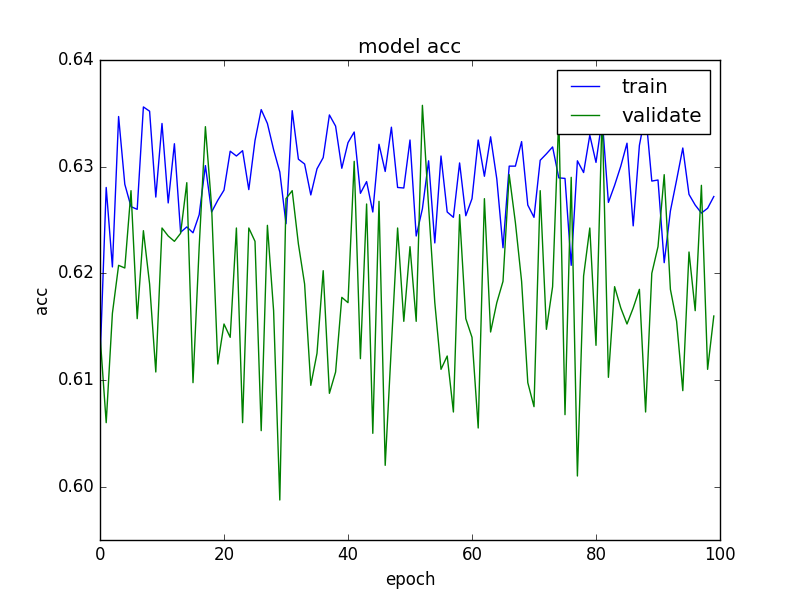
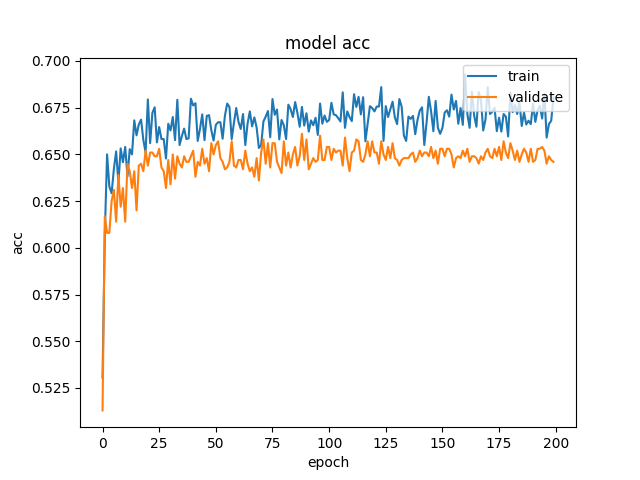
1st submit

diff --git a/kaggle/quora/utils.py b/kaggle/quora/utils.py
@@ -74,9 +74,14 @@ def write_vectors(binary_file_path, vocab_file_path, c):
 #	    c.data.wordvec.insert({'vec': generate_vectors(word_vectors, i, '../quora_data/vec_train.txt').tolist(), 'word':i})
 #	    print e
 
-def predict_similarity(question1, question2, vec_coll, model):
-    print question1, question2
+def predict_similarity(question1, question2, vec_coll, model, only_tfidf=False, batch_size = 1):
+    #print question1, question2
     q = map(lambda x: re.sub(r'\W+',' ',x.lower()) if isinstance(x, str) else '', [question1, question2])
+    if only_tfidf:
+        q_vec = map(lambda x: np.lib.pad(tf.vec(x)[:max_sent_len], (0,max(0,max_sent_len-len(tf.vec(x)))), 'constant', constant_values = (0)).reshape(1,max_sent_len,1), q)
+        return model.predict(q_vec)
+    if batch_size > 1:
+        pass
     q_vec = map(lambda x: map(lambda xx:np.array(vec_coll.find_one({'word': xx})['vec']) if vec_coll.find_one({'word': xx}) else np.zeros(wordvec_dim), x), q)
     q_vec = map(lambda x: x[:max_sent_len] if len(x) > max_sent_len else np.concatenate((x,np.zeros((max_sent_len-len(x), wordvec_dim))), axis = 0), q_vec)
     q_vec = map(lambda x: np.array(x).reshape((1, max_sent_len, wordvec_dim)), q_vec)
@@ -90,25 +95,25 @@ def index_training_data(num_data):
     #x2 = map(lambda x: map(lambda xx: coll_vec.find_one({'word':xx})['vec'] if coll_vec.find_one({'word':xx})!=None else np.zeros(wordvec_dim), x), x2)
     x1_train = []
     #######################################3 For indexing question 1 ###################
-    #for i in xrange(num_data):
-    #    x1_tfidf = tf.vec(' '.join(x1[i]))
-    #    #print 'hello111111111',i
-    #    x1_sents = []
-    #    for j in xrange(max_sent_len):
-    #        try:
-    #            if j>=len(x1[i]):
-    #                x1_sents.append(np.zeros(wordvec_dim))
-    #            else:
-    #                x1_sents.append(coll_vec.find_one({'word':x1[i][j]})['vec'])
+    for i in xrange(num_data):
+        x1_tfidf = tf.vec(' '.join(x1[i]))
+        #print 'hello111111111',i
+        x1_sents = []
+        for j in xrange(max_sent_len):
+            try:
+                if j>=len(x1[i]):
+                    x1_sents.append(np.zeros(wordvec_dim))
+                else:
+                    x1_sents.append(coll_vec.find_one({'word':x1[i][j]})['vec'])
 
-    #        except:
-    #           #if j>=len(x1[i]):
-    #            x1_sents.append(np.zeros(wordvec_dim))
-    #           # else:
-    #           #     x1[i][j] = np.zeros(wordvec_dim)
-    #    question1_collection.insert_one({'_id':i, 'vec':np.array(x1_sents).tolist(), 'tf':x1_tfidf})
-    #    try: 1/(i%10000)
-    #    except: print i
+            except:
+               #if j>=len(x1[i]):
+                x1_sents.append(np.zeros(wordvec_dim))
+               # else:
+               #     x1[i][j] = np.zeros(wordvec_dim)
+        question1_collection.insert_one({'_id':i, 'vec':np.array(x1_sents).tolist(), 'tf':x1_tfidf})
+        try: 1/(i%10000)
+        except: print i
     #######################################3 For indexing question 1 ###################
 
     #######################################3 For indexing question 2 ###################
@@ -134,6 +139,7 @@ def index_training_data(num_data):
 
 if __name__ == '__main__':
     c = MongoClient()
+    only_tfidf = True
     coll_vec = c.data.wordvec
     question1_collection = c.data.question1
     question2_collection = c.data.question2
@@ -173,16 +179,46 @@ if __name__ == '__main__':
         max_sent_len = max([max(map(lambda x: len(x), x1)), max(map(lambda x: len(x), x2))])
         max_sent_len = 60
 
-        index_training_data(10000)
+        index_training_data(50000)
 
     if sys.argv[-1] == 'predict': ### Sample prediction
 	import model_arch as ma
+        tf = tfidf.tfidf('../quora_data/vec_train.txt')
 	q1,q2 = sys.argv[-3], sys.argv[-2]
-	model = ma.dense_test(max_sent_len, wordvec_dim, gru_output_dim, output_dim)
+        if only_tfidf: wordvec_dim = 1
+	model = ma.siamese(max_sent_len, wordvec_dim, gru_output_dim, output_dim)
 	model.load_weights('../quora_data/siamese_lstm.weights')
-	out = predict_similarity(q1, q2, coll_vec, model)
+	out = predict_similarity(q1, q2, coll_vec, model, only_tfidf)
 	print out,'  <<-------- OUTPUT'
 
     if sys.argv[-1] == 'create_vec_data': ### Create trainables for vector
 	data = create_trainable_for_vector(['../quora_data/train.csv', '../quora_data/test.csv'])
 	open('../quora_data/vec_train.txt', 'w').write(data)
+
+    if sys.argv[-1] == 'sub': # for submission
+        test_data = pd.read_csv('../quora_data/test.csv')
+	import model_arch as ma
+        tf = tfidf.tfidf('../quora_data/vec_train.txt')
+	#q1,q2 = sys.argv[-3], sys.argv[-2]
+        if only_tfidf: wordvec_dim = 1
+	model = ma.siamese(max_sent_len, wordvec_dim, gru_output_dim, output_dim)
+	model.load_weights('../quora_data/siamese_lstm.weights')
+
+        df = pd.DataFrame(columns = ['test_id', 'is_duplicate'])
+        #for i in xrange(len(test_data['id'])):
+        i = 0
+        while i<len(test_data):
+            #batch_data = test_data[i:i+batch_size]
+            q1 = test_data['question1'][i]
+            q2 = test_data['question2'][i]
+	    out = predict_similarity(q1, q2, coll_vec, model, only_tfidf)
+            out = list(out[0])
+            out = out.index(min(out))
+            df1 = pd.DataFrame([[int(test_data['test_id'][i]), int(out)]], columns = ['test_id', 'is_duplicate'])
+            df = df.append(df1)
+            i=i+1
+            if i%1000==0 : print i, df1, q1, q2,111111111
+            #if i%10000==0: break
+
+        df = df.astype(int)
+        df.to_csv('../quora_data/Sample_submission_1.csv', index=False)

diff --git a/kaggle/quora/train.py b/kaggle/quora/train.py
@@ -1,6 +1,6 @@
 import pandas as pd
-from keras.utils import plot_model
-
+#from keras.utils import plot_model
+import matplotlib
 from pymongo import MongoClient
 import numpy as np
 import model_arch as ma
@@ -11,6 +11,7 @@ import matplotlib.pyplot as plt
 #import pickle as pk
 #import gzip
 
+matplotlib.use('Agg')
 c = MongoClient()
 coll_vec = c.data.wordvec
 question1_collection = c.data.question1
@@ -21,9 +22,9 @@ max_sent_len = 10
 wordvec_dim = 200
 gru_output_dim = 50
 output_dim = 2
-train_size = 2000
-batch_size = 500
-num_epoch = 20
+train_size = 5000
+batch_size = 1000
+num_epoch = 200
 def batch_gen_2d(batch_size, start_index, end_index, only_tfidf = False):
     while True:
         i = randint(start_index, end_index)
@@ -55,7 +56,7 @@ def batch_gen_2d(batch_size, start_index, end_index, only_tfidf = False):
         # break
 
 
-model = ma.dense_test(max_sent_len, wordvec_dim, gru_output_dim, output_dim)
+model = ma.siamese(max_sent_len, wordvec_dim, gru_output_dim, output_dim)
 
 print 'fitting model ...'
 only_tfidf = False
@@ -63,9 +64,9 @@ if sys.argv[-1]=='only_tfidf':
     model = ma.siamese(max_sent_len, 1 , gru_output_dim, output_dim)
     only_tfidf = True
 #fit = model.fit_generator(generator=batch_gen_2d(500,1,10000), nb_epoch=30, samples_per_epoch=train_size)
-history = model.fit_generator(generator=batch_gen_2d(batch_size,1,3000, only_tfidf), nb_epoch = num_epoch, validation_data = batch_gen_2d(batch_size,5000,6010, only_tfidf), nb_val_samples = 100, steps_per_epoch=50)
+history = model.fit_generator(generator=batch_gen_2d(batch_size,1,39000, only_tfidf), nb_epoch = num_epoch, validation_data = batch_gen_2d(batch_size,44000,44010, only_tfidf), nb_val_samples = 1000, samples_per_epoch=train_size)
 
-plot_model(model, to_file='model.png')
+#plot_model(model, to_file='model.png')
 
 model.save_weights("../quora_data/siamese_lstm.weights",overwrite=True)
 
